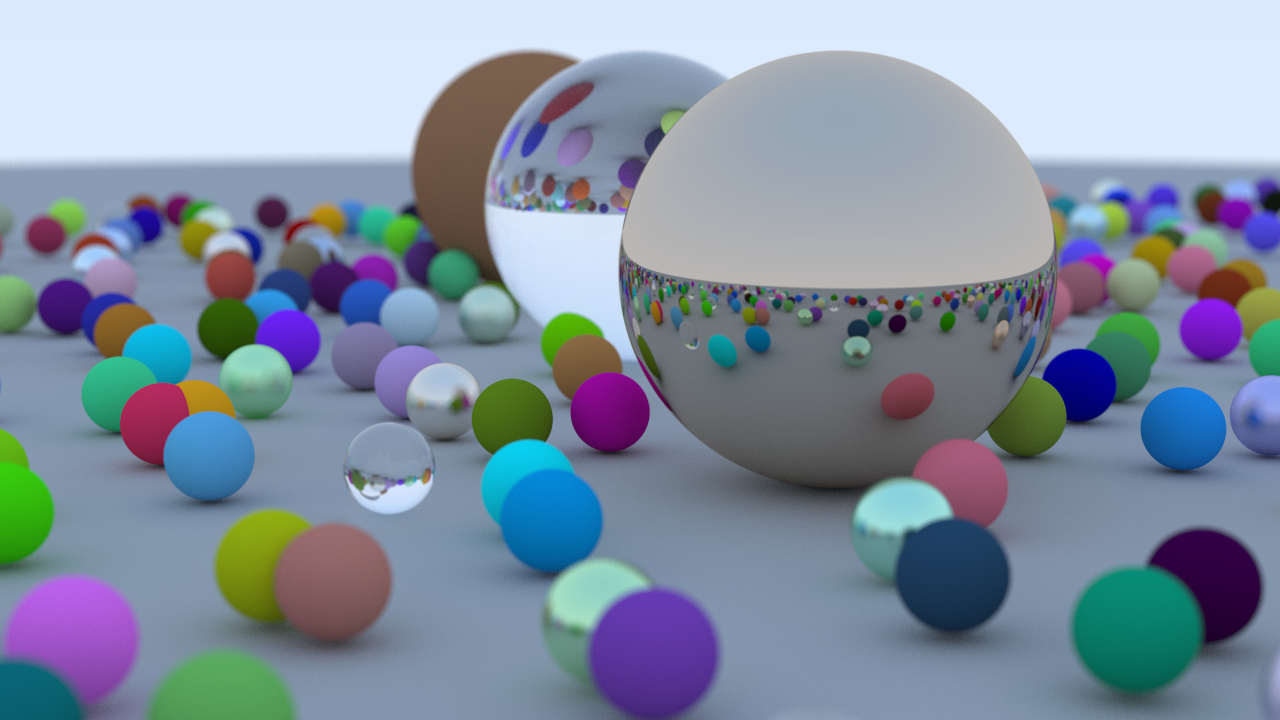
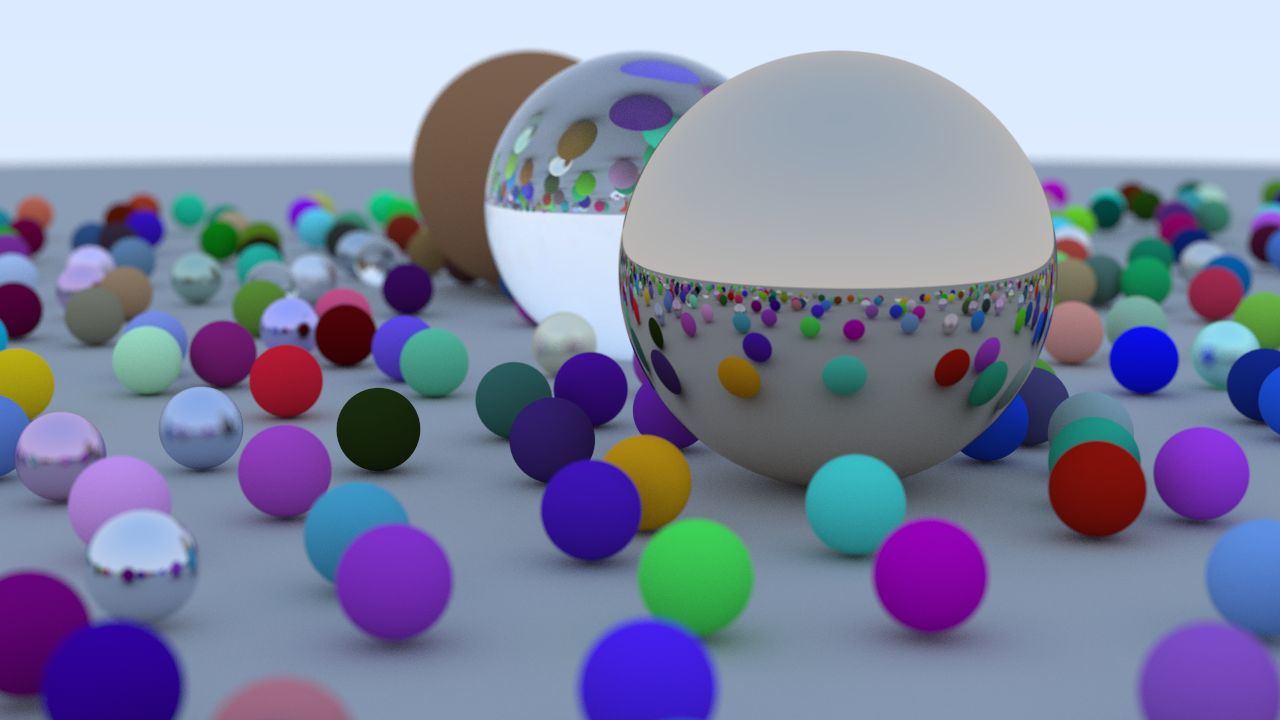
<feature> ferris3d and sphere

diff --git a/src/main.rs b/src/main.rs
@@ -8,8 +8,8 @@ use rand::RngExt;
 
 use crate::bvh::BvhNode;
 use crate::hit::{HitableList, Quad, Sphere};
-use crate::material::{Dielectric, Lambertian, Material, Metal};
-use crate::texture::{CheckerTexture, ImageTexture, SolidColor};
+use crate::material::{Dielectric, Lambertian, Metal};
+use crate::texture::ImageTexture;
 
 mod aabb;
 mod bvh;
@@ -21,7 +21,12 @@ mod texture;
 mod util;
 
 fn main() -> Result<(), Box<dyn Error>> {
-    ferris3d()
+    earth()?;
+    rand_sphere()?;
+    quads()?;
+    ferris3d()?;
+    ferris3d_and_sphere()?;
+    Ok(())
 }
 
 fn rand_sphere() -> Result<(), Box<dyn Error>> {
@@ -186,7 +191,7 @@ fn quads() -> Result<(), Box<dyn Error>> {
     let mut camera = camera::Camera::default();
 
     camera.samples_per_pixel = 100;
-    camera.max_depth = 50;
+    camera.max_depth = 500;
     camera.vfov = (PI / 180.0) * 80.0;
     camera.look_from = Vec3::new(0.0, 0.0, 9.0);
     camera.look_at = Vec3::new(0.0, 0.0, 0.0);
@@ -259,5 +264,76 @@ fn ferris3d() -> Result<(), Box<dyn Error>> {
     camera.render(&mut img, &world);
     println!("{:?}", start.elapsed());
     img.save("ferris3d.png")?;
+    Ok(())
+}
+
+fn ferris3d_and_sphere() -> Result<(), Box<dyn Error>> {
+    let (models, _materials) =
+        tobj::load_obj("./assets/ferris3d_v1.0.obj", &tobj::GPU_LOAD_OPTIONS)?;
+    let mut world = HitableList::new();
+
+    let albedo = ImageTexture::new(image::open("./assets/albedo.png")?.into_rgb32f());
+    let albedo = Arc::new(Lambertian::new(albedo));
+
+    let default = Arc::new(Lambertian::from(Rgb([0.9, 0.2, 0.3])));
+    for model in models {
+        let mesh = &model.mesh;
+
+        let material = match mesh.material_id {
+            Some(_) => albedo.clone(),
+            None => default.clone(),
+        };
+        for tri in mesh.indices.chunks(3) {
+            let mut verts = [Vec3::default(); 3];
+            let mut uvs = [(0.0, 0.0); 3];
+
+            for i in 0..3 {
+                let idx = tri[i] as usize;
+                verts[i] = Vec3::new(
+                    mesh.positions[3 * idx],
+                    mesh.positions[3 * idx + 1],
+                    mesh.positions[3 * idx + 2],
+                );
+                if !mesh.texcoords.is_empty() {
+                    uvs[i] = (mesh.texcoords[2 * idx], mesh.texcoords[2 * idx + 1]);
+                }
+            }
+            world.push(
+                hit::Tri::new(
+                    verts[0],
+                    verts[1] - verts[0],
+                    verts[2] - verts[0],
+                    material.clone(),
+                )
+                .with_uvs(uvs),
+            );
+        }
+    }
+
+    world.push(Sphere {
+        pos: Vec3::new(1.0, 0.5, 0.0),
+        radius: 0.4,
+        material: Metal::new(Rgb([0.7, 0.6, 0.5]), 0.0),
+    });
+
+    let mut img = image::RgbImage::from_fn(1280, 720, |_, _| Rgb([0, 0, 0]));
+    let env = image::open("assets/env.png")?.into_rgb32f();
+    let mut camera = camera::Camera::default();
+
+    camera.samples_per_pixel = 1000;
+    camera.max_depth = 500;
+    camera.vfov = (PI / 180.0) * 30.0;
+    camera.look_from = Vec3::new(0.5, 0.0, 3.0);
+    camera.look_at = Vec3::new(0.5, 0.5, 0.0);
+    camera.vup = Vec3::new(0.0, 1.0, 0.0);
+    camera.defocus = 0.0;
+    camera.foucus_dist = 10.0;
+    camera.env = Some(Box::new(ImageTexture::new(env)));
+
+    let start = std::time::Instant::now();
+    let world = BvhNode::new(world.objects);
+    camera.render(&mut img, &world);
+    println!("{:?}", start.elapsed());
+    img.save("ferris3d_and_sphere.png")?;
     Ok(())
 }

diff --git a/src/camera.rs b/src/camera.rs
@@ -1,12 +1,13 @@
 use std::f32::consts::PI;
 
 use glam::Vec3;
-use image::buffer::{PixelsMut, RowsMut};
+use image::buffer::PixelsMut;
 use image::{Rgb, RgbImage};
 use rand::RngExt;
 use rand::rngs::ThreadRng;
 
-use crate::hit::{Hitable, HitableList};
+use crate::hit::Hitable;
+use crate::texture::Texture;
 use crate::ray::Ray;
 use crate::util::random_in_unit_disk;
 
@@ -19,6 +20,7 @@ pub struct Camera {
     pub vfov: f32,
     pub defocus: f32,
     pub foucus_dist: f32,
+    pub env: Option<Box<dyn Texture>>,
 }
 
 impl Default for Camera {
@@ -32,11 +34,13 @@ impl Default for Camera {
             vfov: PI * 0.5,
             defocus: PI * 0.0,
             foucus_dist: 10.0,
+            env: None,
         }
     }
 }
 
 impl Camera {
+    #[allow(unused)]
     pub fn set_vfov_from_degree(&mut self, degree: f32) {
         self.vfov = PI * degree / 180.0
     }
@@ -97,7 +101,7 @@ impl Camera {
 
                 for _ in 0..self.samples_per_pixel {
                     let ray = get_ray(x as u32, y as u32, &mut rng);
-                    let c = ray_color(&ray, world, self.max_depth);
+                    let c = ray_color(&ray, world, self.env.as_deref(), self.max_depth, true);
                     for i in 0..3 {
                         color[i] += c.0[i]
                     }
@@ -122,6 +126,7 @@ impl Camera {
     }
 }
 
+#[allow(unused)]
 fn ray_normal_color<H: Hitable>(ray: &Ray, hitable: &H, depth: u32) -> Rgb<f32> {
     if depth == 0 {
         return Rgb([0.0, 0.0, 0.0]);
@@ -140,7 +145,13 @@ fn ray_normal_color<H: Hitable>(ray: &Ray, hitable: &H, depth: u32) -> Rgb<f32> 
     ]);
 }
 
-fn ray_color<H: Hitable>(ray: &Ray, hitable: &H, depth: u32) -> Rgb<f32> {
+fn ray_color<H: Hitable>(
+    ray: &Ray,
+    hitable: &H,
+    env: Option<&dyn Texture>,
+    depth: u32,
+    first: bool,
+) -> Rgb<f32> {
     if depth == 0 {
         return Rgb([0.0, 0.0, 0.0]);
     }
@@ -148,7 +159,7 @@ fn ray_color<H: Hitable>(ray: &Ray, hitable: &H, depth: u32) -> Rgb<f32> {
     if let Some(hit) = hitable.hit(ray, 0.01, 100000.0) {
         let color_from_emission = hit.material.emitted(hit.u, hit.v, hit.pos);
         if let Some(scatter) = hit.material.scatter(ray, &hit) {
-            let mut color = ray_color(&scatter.ray, hitable, depth - 1);
+            let mut color = ray_color(&scatter.ray, hitable, env, depth - 1, false);
             for i in 0..3 {
                 color.0[i] *= scatter.attenuation.0[i];
                 color.0[i] += color_from_emission.0[i];
@@ -159,12 +170,24 @@ fn ray_color<H: Hitable>(ray: &Ray, hitable: &H, depth: u32) -> Rgb<f32> {
     }
 
     let dir = ray.direction().normalize();
-    let a = 0.5 * (dir.y + 1.0);
-    return Rgb([
-        (1.0 - a) + (a * 0.5),
-        (1.0 - a) + (a * 0.7),
-        (1.0 - a) + (a * 1.0),
-    ]);
+    match (env, first) {
+        (Some(env), false) => {
+            let phi = dir.z.atan2(dir.x);
+            let theta = dir.y.asin();
+
+            let u = 1.0 - (phi + PI) / (2.0 * PI);
+            let v = (theta + PI / 2.0) / PI;
+            env.color(u, v, dir)
+        }
+        _ => {
+            let a = 0.5 * (dir.y + 1.0);
+            Rgb([
+                (1.0 - a) + (a * 0.5),
+                (1.0 - a) + (a * 0.7),
+                (1.0 - a) + (a * 1.0),
+            ])
+        }
+    }
 }
 
 fn linear_to_gamma(color: Rgb<f32>, pixel_samples_scale: f32) -> Rgb<u8> {

diff --git a/src/texture.rs b/src/texture.rs
@@ -42,6 +42,7 @@ pub struct CheckerTexture {
 }
 
 impl CheckerTexture {
+    #[allow(unused)]
     pub fn new<T0, T1>(inv_scale: f32, even: T0, odd: T1) -> Self
     where
         T0: Texture + 'static,
@@ -54,6 +55,7 @@ impl CheckerTexture {
         }
     }
 
+    #[allow(unused)]
     pub fn from_color(inv_scale: f32, even: Rgb<f32>, odd: Rgb<f32>) -> Self {
         Self::new(inv_scale, SolidColor::new(even), SolidColor::new(odd))
     }

diff --git a/src/material.rs b/src/material.rs
@@ -157,11 +157,13 @@ fn reflectance(cosine: f32, refraction_index: f32) -> f32 {
     r0 + (1.0 - r0) * (1.0 - cosine).powi(5)
 }
 
+#[allow(unused)]
 pub struct DiffuseLight {
     pub tex: Box<dyn Texture>,
 }
 
 impl DiffuseLight {
+    #[allow(unused)]
     pub fn new(tex: impl Texture + 'static) -> Self {
         Self {
             tex: Box::new(tex) as _,

diff --git a/src/hit.rs b/src/hit.rs
@@ -1,6 +1,6 @@
 use std::f32::consts::PI;
 
-use glam::{Vec2, Vec3};
+use glam::Vec3;
 
 use crate::aabb::AABB;
 use crate::material::Material;
@@ -44,6 +44,7 @@ pub struct Sphere<M: Material> {
 }
 
 impl<M: Material> Sphere<M> {
+    #[allow(unused)]
     pub fn new(pos: Vec3, radius: f32, material: M) -> Self {
         Self {
             pos,

diff --git a/src/util.rs b/src/util.rs
@@ -19,6 +19,7 @@ pub fn random_unit_vec3() -> Vec3 {
     }
 }
 
+#[allow(unused)]
 pub fn random_on_hemisphere(normal: Vec3) -> Vec3 {
     let on_unit_sphere = random_unit_vec3();
     if on_unit_sphere.dot(normal) > 0.0 {

diff --git a/src/aabb.rs b/src/aabb.rs
@@ -22,6 +22,7 @@ impl Default for AABB {
 }
 
 impl AABB {
+    #[allow(unused)]
     pub fn new(x: Range<f32>, y: Range<f32>, z: Range<f32>) -> Self {
         Self { x, y, z }
     }
